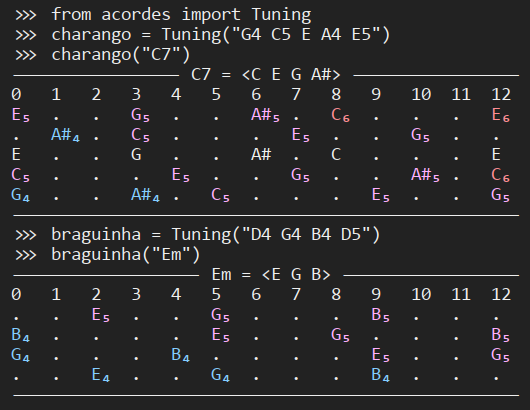
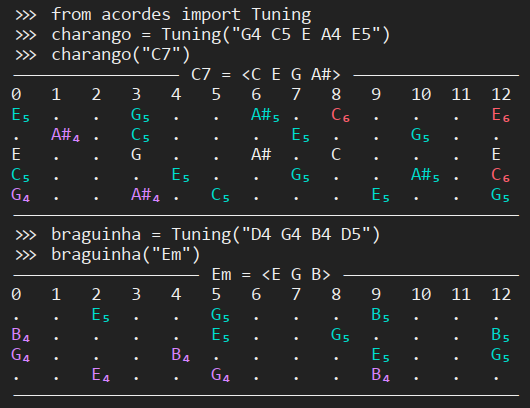
Completely reworked formatting (#4)
* Move formatting to a separate file.
* Add options.json file

diff --git a/acordes/tuning.py b/acordes/tuning.py
@@ -1,11 +1,15 @@
 from typing import Iterator
+
 from .chord import Chord
 from .note import Note, note_regex
+from .formatting import print_fretboard
 
 
 def _parse_tuning(description: str) -> list[Note]:
-    return [Note(match.group()) for match in note_regex.finditer(description)]
-
+    open_strings = [Note(match.group()) for match in note_regex.finditer(description)]
+    if not open_strings:
+        raise ValueError("at least one open string required")
+    return open_strings
 
 class Tuning:
     def __init__(self, description: str):
@@ -15,65 +19,22 @@ class Tuning:
     def __repr__(self) -> str:
         return self._repr
 
-    def _fretted_strings(self, chord_pitch_classes: set[int]) -> Iterator[list[Note|None]]:
+    def _fretted_strings(self, allowed_pitches: set[int], fret_count: int) -> Iterator[list[Note|None]]:
         for open_string in self.open_strings:
             fretted_string: list[Note|None] = []
-            for fret in range(13):  # after an octave it just repeats anyway
+            for fret in range(fret_count + 1):
                 note = open_string + fret
-                if note.pitch_class in chord_pitch_classes:
+                if note.pitch_class in allowed_pitches:
                     fretted_string.append(note)
                 else:
                     fretted_string.append(None)
             yield fretted_string
 
-    def __call__(self, chord_name: str) -> None:
+    def __call__(self, chord_name: str, fret_count: int=12) -> None:
         """
         Print the fret diagram.
         """
         chord = Chord(chord_name)
-        print(f" {chord} ".center(13 * 4 - 1, '-'))
-        print(''.join(f"{i:<4}" for i in range(13)))
-        root_note = chord.notes[0]
-        chord_pitch_classes = set(n.pitch_class for n in chord.notes)
-        fretted_strings = self._fretted_strings(chord_pitch_classes)
-        rows = [_format_row(notes, root_note) for notes in fretted_strings]
-        for row in reversed(rows):
-            print(row)
-        print("-" * (13 * 4 - 1))
-
-
-_color_end = '\033[0m'
-
-_colors = [
-    '\033[32m',  # green
-    '\033[31m',  # red
-    '\033[34m',  # blue
-    '\033[33m',  # yellow
-    '\033[35m',  # magenta
-    '\033[36m',  # cyan
-]
-
-_subscript = str.maketrans(
-    '0123456789',
-    '₀₁₂₃₄₅₆₇₈₉')
-
-
-def _colored(text: str, color: int) -> str:
-    color_start = _colors[color % len(_colors)]
-    return color_start + text + _color_end
-
-
-def _format_fret(note: Note|None, root_note: Note) -> str:
-    if note is not None:
-        text = f'{note}'.translate(_subscript)
-        if note.octave is not None:
-            color = (note.octave * 12 + note.pitch_class - root_note.pitch_class) // 12
-            return _colored(f"{text:4}", color)
-        else:
-            return f"{text:4}"
-    else:
-        return '.   '
-
-
-def _format_row(notes: list[Note|None], root_note: Note) -> str:
-    return ''.join(_format_fret(note, root_note) for note in notes)
+        allowed_pitches = set(n.pitch_class for n in chord.notes)
+        fretted_strings = list(self._fretted_strings(allowed_pitches, fret_count))
+        print_fretboard(chord, fretted_strings)

diff --git a/acordes/formatting.py b/acordes/formatting.py
@@ -1,0 +1,90 @@
+import os
+import json
+
+from .chord import Chord
+from .note import Note
+
+
+_color_codes = {
+    'black'         : '\033[30m',
+    'red'           : '\033[31m',
+    'green'         : '\033[32m',
+    'yellow'        : '\033[33m',
+    'blue'          : '\033[34m',
+    'magenta'       : '\033[35m',
+    'cyan'          : '\033[36m',
+    'white'         : '\033[37m',
+    'bright_black'  : '\033[90m',
+    'bright_red'    : '\033[91m',
+    'bright_green'  : '\033[92m',
+    'bright_yellow' : '\033[93m',
+    'bright_blue'   : '\033[94m',
+    'bright_magenta': '\033[95m',
+    'bright_cyan'   : '\033[96m',
+    'bright_white'  : '\033[97m',
+}
+
+
+_color_end = '\033[0m'
+
+
+def validate_colors(colors: object) -> None:
+    if not isinstance(colors, list):
+        raise TypeError("configuration file should contain a list of strings")
+    for color in colors:
+        if color not in _color_codes:
+            raise KeyError(f"{color} is not a supported color")
+
+
+COLORS_FILE = 'colors.json'
+
+
+if os.path.exists(COLORS_FILE):
+    with open(COLORS_FILE, 'r') as file:
+        colors = json.load(file)
+        validate_colors(colors)
+else:
+    colors = ['red', 'green', 'blue', 'yellow', 'magenta', 'cyan']
+
+
+_subscript = str.maketrans(
+    '0123456789',
+    '₀₁₂₃₄₅₆₇₈₉')
+
+
+def _colored(text: str, color: str) -> str:
+    return _color_codes[color] + text + _color_end
+
+
+def _format_fret(note: Note|None, root_note: Note) -> str:
+    if note is None:
+        return ".   "
+
+    text = repr(note).translate(_subscript)
+    text = f"{text:<4}"
+    if note.octave is None:
+        return text
+
+    # notes inside a single group form a non-inverted chord
+    group = (note.octave * 12 + note.pitch_class - root_note.pitch_class) // 12
+    color = colors[group % len(colors)]
+    return _colored(text, color)
+
+
+def _format_row(row: list[Note|None], root_note: Note) -> str:
+    return ''.join(_format_fret(note, root_note) for note in row)
+
+
+def print_fretboard(chord: Chord, fretboard: list[list[Note|None]]) -> None:
+    """
+    fretboard
+        Should be non-empty, with all elements having the same length.
+    """
+    column_count = len(fretboard[0])
+    width = column_count * 4
+    print(f' {chord} '.center(width, '-'))
+    print(''.join(f'{i:<4}' for i in range(column_count)))  # fret numbers
+    root_note = chord.notes[0]
+    for row in reversed(fretboard):
+        print(_format_row(row, root_note))
+    print('-' * width)

diff --git a/README.md b/README.md
@@ -36,7 +36,9 @@ Supported chord descriptions are (examples with C as the root note):
 - with three notes: Cdim, Csus2, C, Cm, Csus4, Caug
 - with four notes: Cm6, C6, Cm7, CmM7, C7, CM7
 
-If octave numbers are present in the tuning, the notes in the output are colored so that notes of the same color form a non-inverted chord.
+If octave numbers are present in the tuning, the notes in the output are colored
+so that notes of the same color form a non-inverted chord. The color palette can
+be configured in the `colors.json` file.
 
 # Development
 
